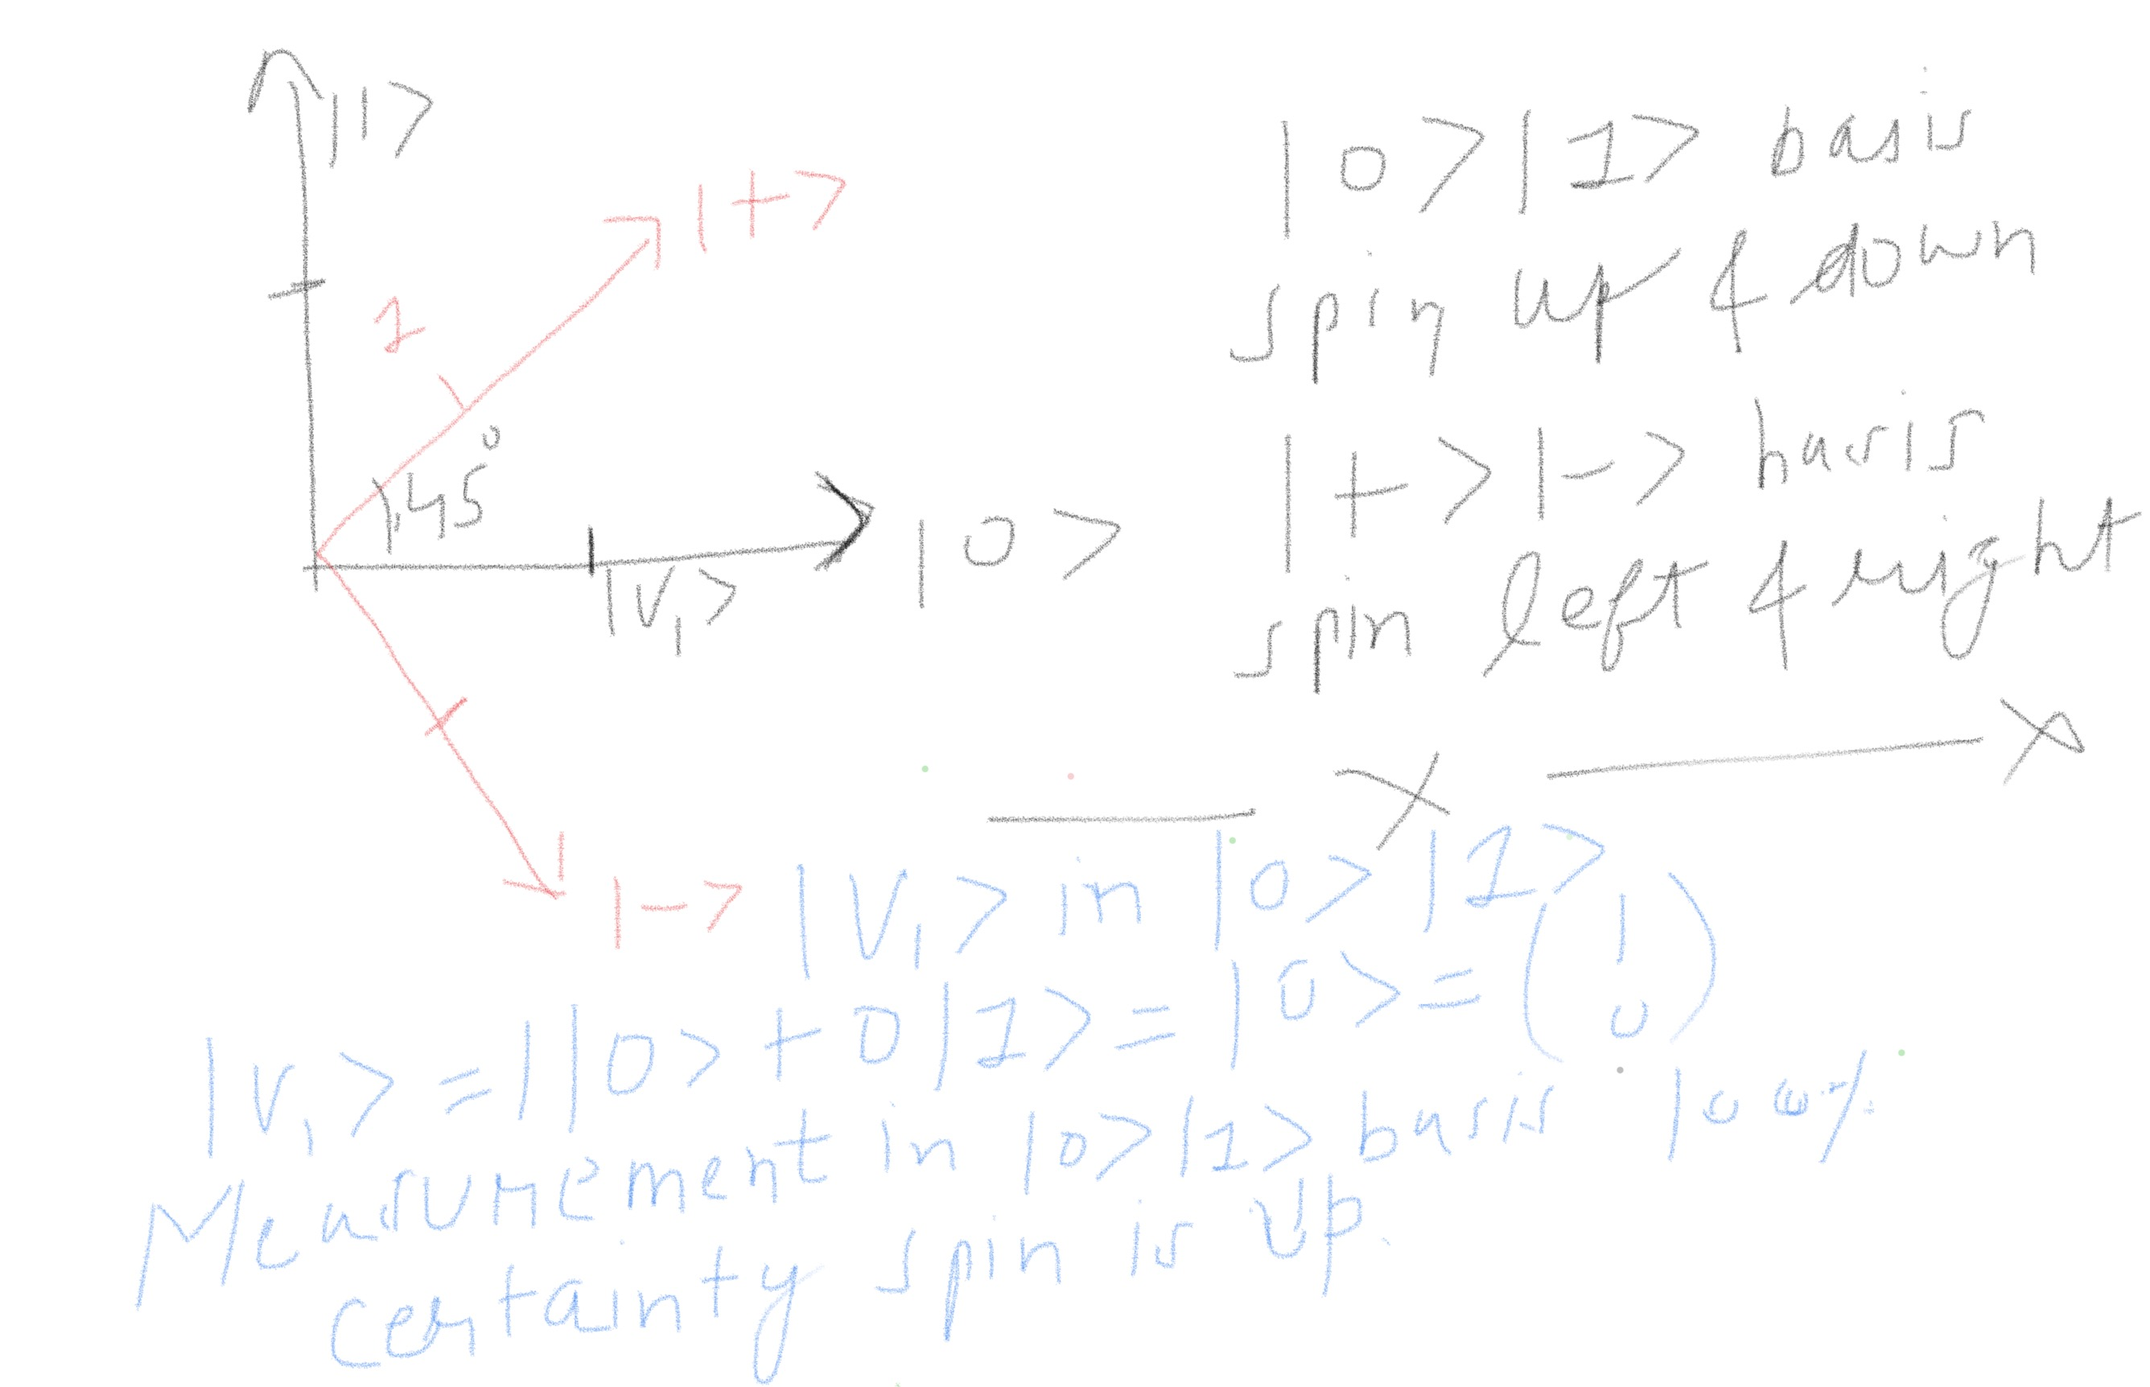
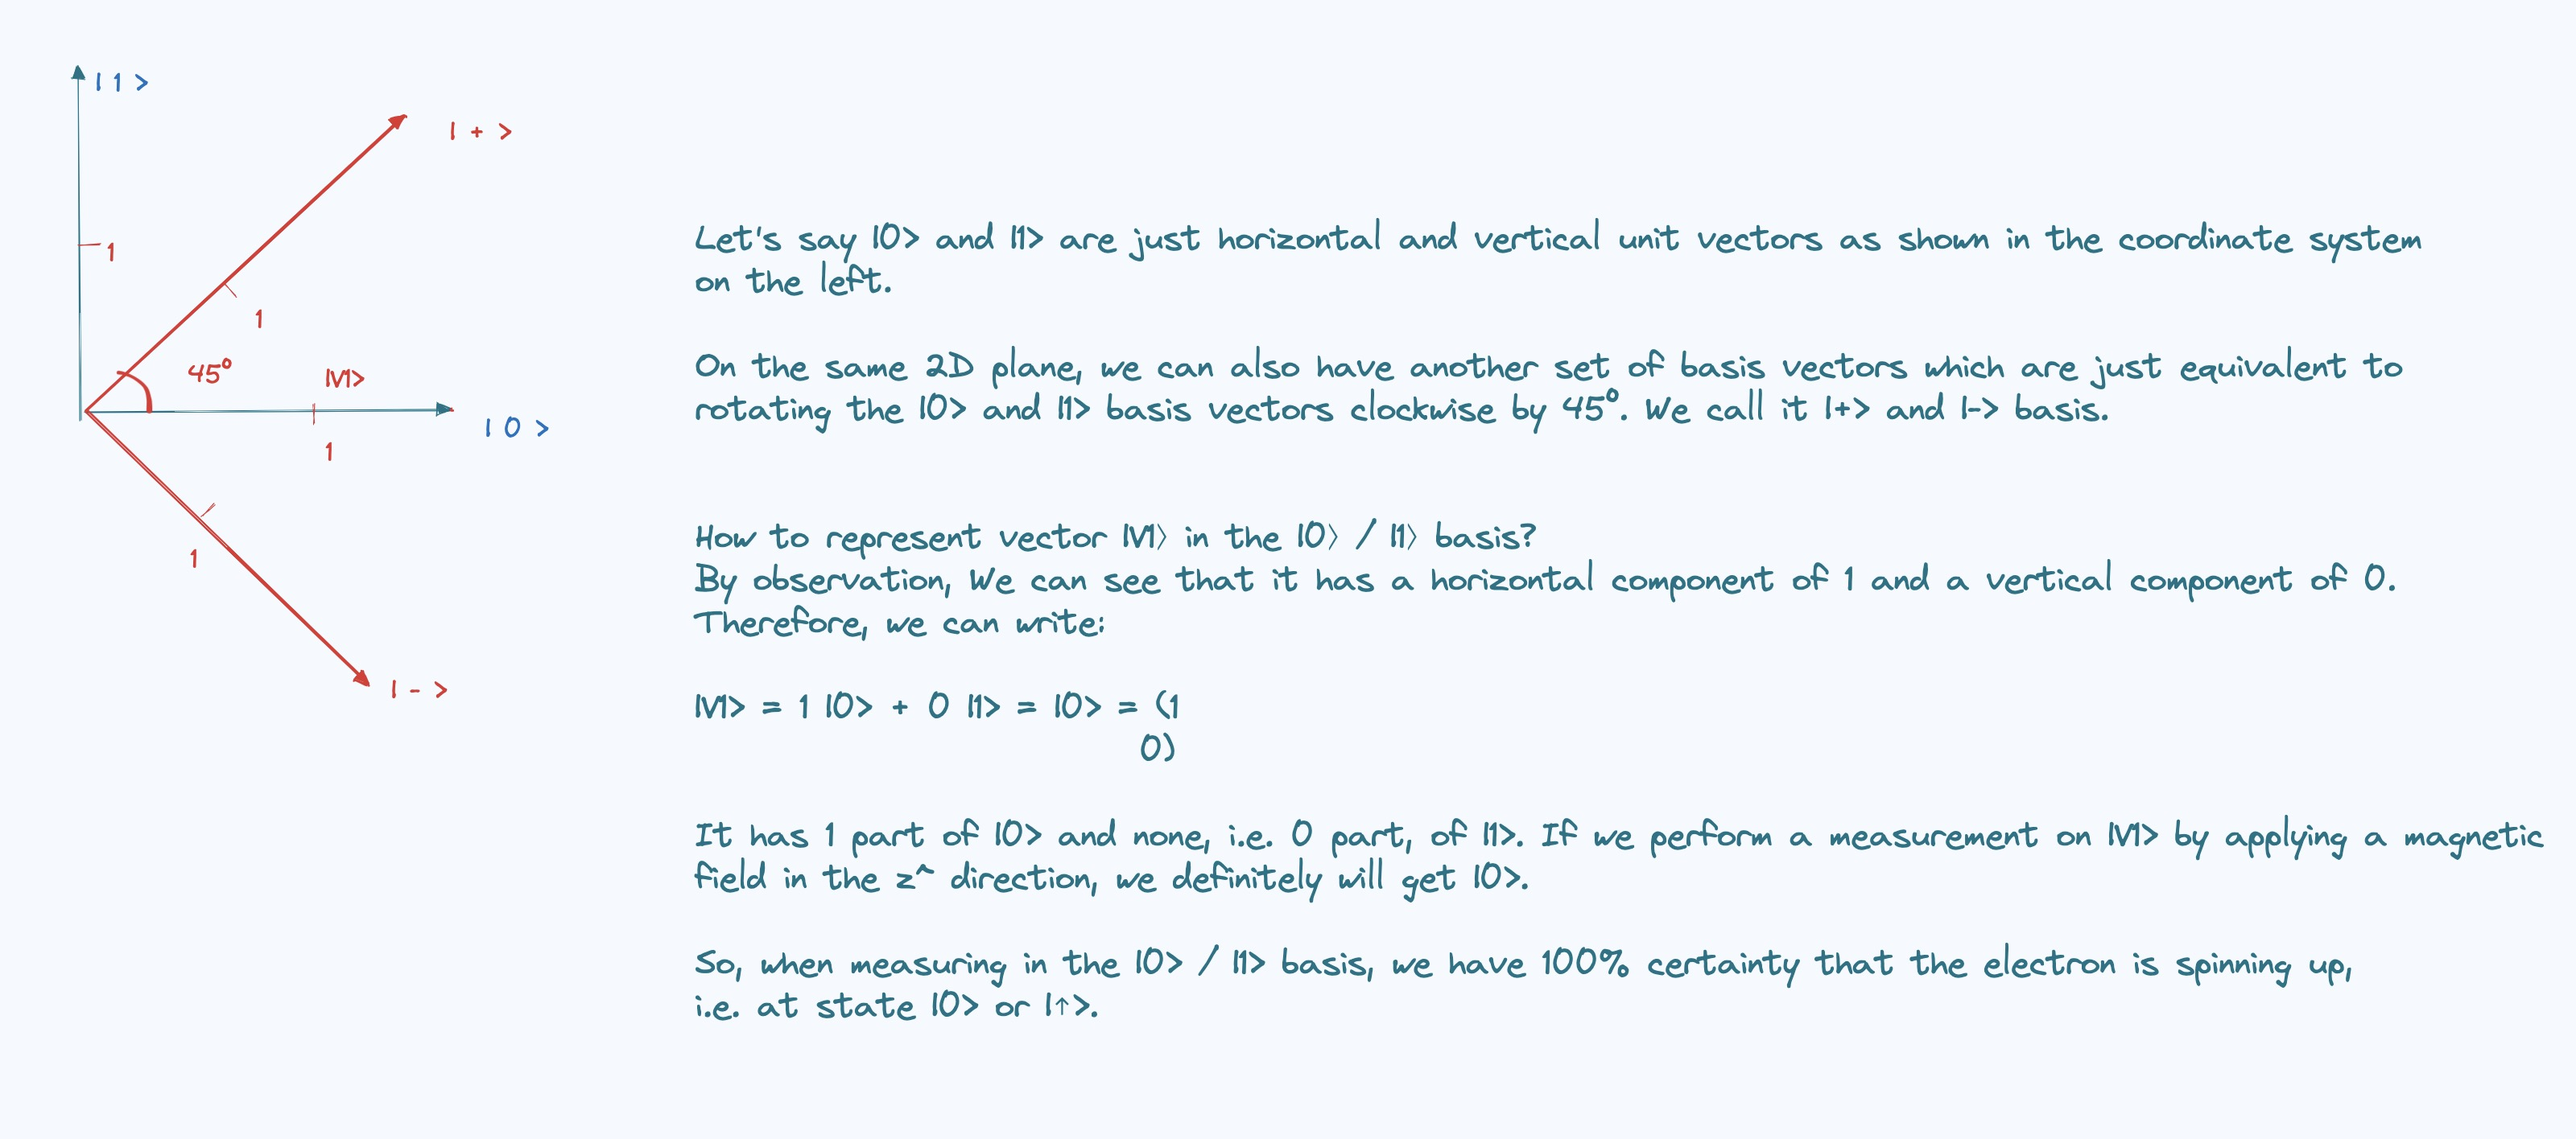
Built site for gh-pages

diff --git a/index.html b/index.html
@@ -178,7 +178,39 @@ ul.task-list li input[type="checkbox"] {
 
 <div class="quarto-listing quarto-listing-container-default" id="listing-listing">
 <div class="list quarto-listing-default">
-<div class="quarto-post image-right" data-index="0" data-categories="applications" data-listing-date-sort="1690309800000" data-listing-file-modified-sort="1690636430290" data-listing-date-modified-sort="NaN" data-listing-reading-time-sort="1">
+<div class="quarto-post image-right" data-index="0" data-categories="quantum theory" data-listing-date-sort="1690655400000" data-listing-file-modified-sort="1690721434270" data-listing-date-modified-sort="NaN" data-listing-reading-time-sort="1">
+<div class="thumbnail">
+<p><a href="./posts/Heisenberg_Explain/index.html"> <img src="./posts/Heisenberg_Explain/uncertainty.png" class="thumbnail-image"> </a></p>
+</div>
+<div class="body">
+<a href="./posts/Heisenberg_Explain/index.html">
+<h3 class="no-anchor listing-title">
+Explanation of Heisenberg’s Uncertainty Principle
+</h3>
+<div class="listing-subtitle">
+
+</div>
+</a>
+<div class="listing-categories">
+<div class="listing-category" onclick="window.quartoListingCategory('quantum theory'); return false;">
+quantum theory
+</div>
+</div>
+<a href="./posts/Heisenberg_Explain/index.html">
+<div class="listing-description">
+How does the uncertainty arise in the measurements and calculations for quantum particles?
+</div>
+</a>
+</div>
+<div class="metadata">
+<a href="./posts/Heisenberg_Explain/index.html">
+<div class="listing-date">
+Jul 30, 2023
+</div>
+</a>
+</div>
+</div>
+<div class="quarto-post image-right" data-index="1" data-categories="applications" data-listing-date-sort="1690309800000" data-listing-file-modified-sort="1690636430290" data-listing-date-modified-sort="NaN" data-listing-reading-time-sort="1">
 <div class="thumbnail">
 <p><a href="./posts/pi/Estimating_Pi.html"> <img src="./posts/pi/pi.png" class="thumbnail-image"> </a></p>
 </div>
@@ -210,7 +242,7 @@ Jul 26, 2023
 </a>
 </div>
 </div>
-<div class="quarto-post image-right" data-index="1" data-categories="fun,circuits" data-listing-date-sort="1689964200000" data-listing-file-modified-sort="1690636401297" data-listing-date-modified-sort="NaN" data-listing-reading-time-sort="1">
+<div class="quarto-post image-right" data-index="2" data-categories="fun,circuits" data-listing-date-sort="1689964200000" data-listing-file-modified-sort="1690636401297" data-listing-date-modified-sort="NaN" data-listing-reading-time-sort="1">
 <div class="thumbnail">
 <p><a href="./posts/Coin/Coin Toss.html"> <img src="./posts/Coin/coin.png" class="thumbnail-image"> </a></p>
 </div>
@@ -241,38 +273,6 @@ How Alice is winning a game of coin flips with a quantum coin?
 <a href="./posts/Coin/Coin Toss.html">
 <div class="listing-date">
 Jul 22, 2023
-</div>
-</a>
-</div>
-</div>
-<div class="quarto-post image-right" data-index="2" data-categories="quantum theory" data-listing-date-sort="1689705000000" data-listing-file-modified-sort="1690652621684" data-listing-date-modified-sort="NaN" data-listing-reading-time-sort="1">
-<div class="thumbnail">
-<p><a href="./posts/Heisenberg_Explain/index.html"> <img src="./posts/Heisenberg_Explain/uncertainty.png" class="thumbnail-image"> </a></p>
-</div>
-<div class="body">
-<a href="./posts/Heisenberg_Explain/index.html">
-<h3 class="no-anchor listing-title">
-Explanation of Heisenberg’s Uncertainty Principle
-</h3>
-<div class="listing-subtitle">
-
-</div>
-</a>
-<div class="listing-categories">
-<div class="listing-category" onclick="window.quartoListingCategory('quantum theory'); return false;">
-quantum theory
-</div>
-</div>
-<a href="./posts/Heisenberg_Explain/index.html">
-<div class="listing-description">
-How does the uncertainty arise in the measurements and calculations for quantum particles?
-</div>
-</a>
-</div>
-<div class="metadata">
-<a href="./posts/Heisenberg_Explain/index.html">
-<div class="listing-date">
-Jul 19, 2023
 </div>
 </a>
 </div>

diff --git a/posts/Heisenberg_Explain/index.html b/posts/Heisenberg_Explain/index.html
@@ -6,9 +6,9 @@
 
 <meta name="viewport" content="width=device-width, initial-scale=1.0, user-scalable=yes">
 
-<meta name="dcterms.date" content="2023-07-19">
+<meta name="dcterms.date" content="2023-07-30">
 
-<title>Quantum Experiments - Explanation of Heisenberg’s Uncertainty Principle</title>
+<title>Quantum Experiments – index</title>
 <style>
 code{white-space: pre-wrap;}
 span.smallcaps{font-variant: small-caps;}
@@ -129,7 +129,7 @@ ul.task-list li input[type="checkbox"] {
       <div>
       <div class="quarto-title-meta-heading">Published</div>
       <div class="quarto-title-meta-contents">
-        <p class="date">July 19, 2023</p>
+        <p class="date">July 30, 2023</p>
       </div>
     </div>
     
@@ -148,11 +148,8 @@ ul.task-list li input[type="checkbox"] {
 
 
 <p>How does the uncertainty arise in the measurements and calculations for quantum particles?</p>
-<p>The explanation lies in the change of basis.</p>
-<p><img src="1.png" class="img-fluid"></p>
-<p>At first the |0&gt;, |1&gt; basis are used where the certainty of measuring the spin up and down is 100% for spin up and then we measure in the |+&gt; |-&gt; basis.</p>
-<p><img src="2.png" class="img-fluid"></p>
-<p>In quantum mechanics, the measurement of momentum and velocity are incompatible and thus, the uncertainty principle.</p>
+<p>The explanation lies in the change of basis and the incompatible Pauli quantum operators.</p>
+<p><img src="1.png" class="img-fluid"> <img src="2.png" class="img-fluid"> <img src="3.png" class="img-fluid"> <img src="4.png" class="img-fluid"> <img src="5.png" class="img-fluid"></p>
 
 
 
